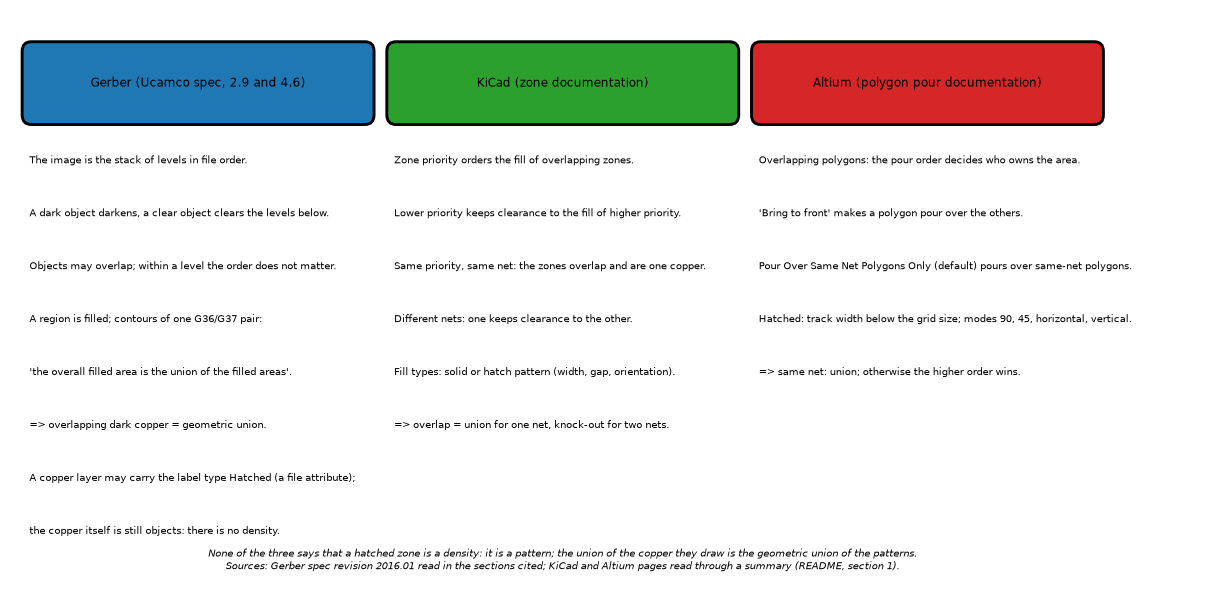
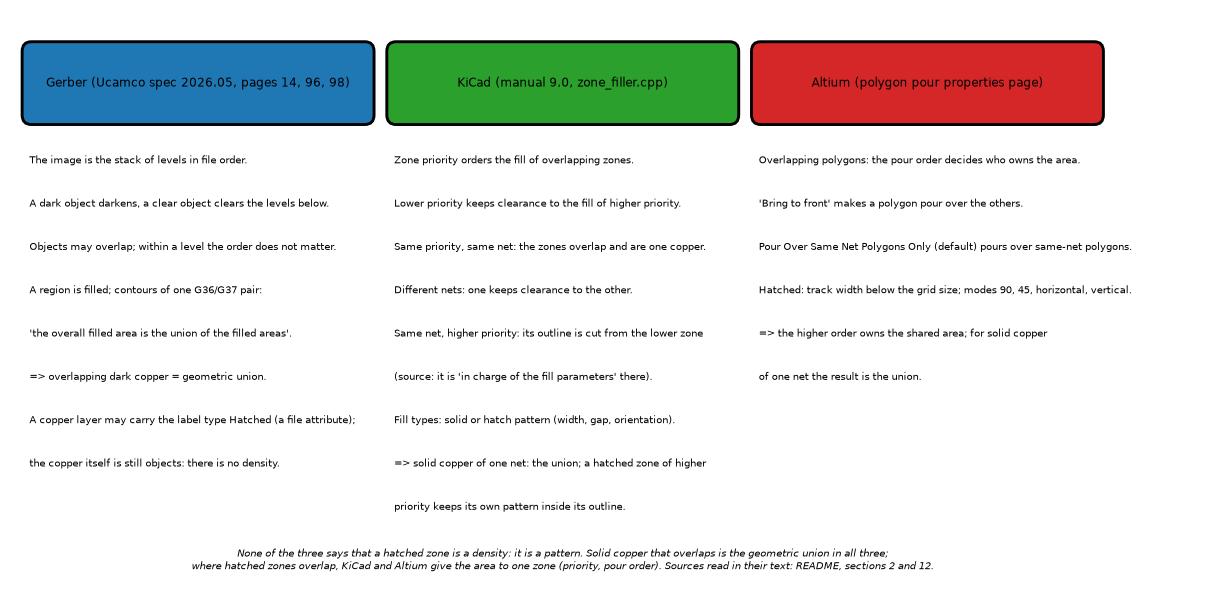
Read the Gerber, KiCad and Altium texts and redraw figure 5
The review downloaded the sources that the investigation had only as
summaries: the KiCad zone filler gives the outline of a same-net zone
of higher priority to that zone, so the priority rule is a CAD rule for
one net too. Figure 5 and the bibliography statuses follow.

Claude-Session: https://claude.ai/code/session_01NsfnySABtTnfYfYFzLoyJj

diff --git a/research/zone-union/scripts/make_diagrams.py b/research/zone-union/scripts/make_diagrams.py
@@ -204,26 +204,27 @@ def fig_05():
     ax.set_xlim(0, 12)
     ax.set_ylim(0, 6)
     cols = [
-        ("Gerber (Ucamco spec, 2.9 and 4.6)", dk.BLUE,
+        ("Gerber (Ucamco spec 2026.05, pages 14, 96, 98)", dk.BLUE,
          ["The image is the stack of levels in file order.", "A dark object darkens, a clear object clears the levels below.",
           "Objects may overlap; within a level the order does not matter.", "A region is filled; contours of one G36/G37 pair:",
           "'the overall filled area is the union of the filled areas'.", "=> overlapping dark copper = geometric union.", "A copper layer may carry the label type Hatched (a file attribute);", "the copper itself is still objects: there is no density."]),
-        ("KiCad (zone documentation)", "#2ca02c",
+        ("KiCad (manual 9.0, zone_filler.cpp)", "#2ca02c",
          ["Zone priority orders the fill of overlapping zones.", "Lower priority keeps clearance to the fill of higher priority.",
           "Same priority, same net: the zones overlap and are one copper.", "Different nets: one keeps clearance to the other.",
-          "Fill types: solid or hatch pattern (width, gap, orientation).", "=> overlap = union for one net, knock-out for two nets."]),
-        ("Altium (polygon pour documentation)", "#d62728",
+          "Same net, higher priority: its outline is cut from the lower zone", "(source: it is 'in charge of the fill parameters' there).",
+          "Fill types: solid or hatch pattern (width, gap, orientation).", "=> solid copper of one net: the union; a hatched zone of higher", "priority keeps its own pattern inside its outline."]),
+        ("Altium (polygon pour properties page)", "#d62728",
          ["Overlapping polygons: the pour order decides who owns the area.", "'Bring to front' makes a polygon pour over the others.",
           "Pour Over Same Net Polygons Only (default) pours over same-net polygons.", "Hatched: track width below the grid size; modes 90, 45, horizontal, vertical.",
-          "=> same net: union; otherwise the higher order wins."]),
+          "=> the higher order owns the shared area; for solid copper", "of one net the result is the union."]),
     ]
     for i, (head, color, lines) in enumerate(cols):
         x = 0.1 + 4.0 * i
         dk.box(ax, x, 4.9, 3.8, 0.8, head, color=color, bold=True, size=8)
         for j, t in enumerate(lines):
-            ax.text(x + 0.05, 4.55 - 0.55 * j, t, fontsize=6.8, va="top", wrap=True)
-    ax.text(6, 0.25, "None of the three says that a hatched zone is a density: it is a pattern; the union of the copper they draw is the geometric union of the patterns.\n"
-                     "Sources: Gerber spec revision 2016.01 read in the sections cited; KiCad and Altium pages read through a summary (README, section 1).", ha="center", fontsize=7.2, style="italic")
+            ax.text(x + 0.05, 4.55 - 0.45 * j, t, fontsize=6.8, va="top", wrap=True)
+    ax.text(6, 0.25, "None of the three says that a hatched zone is a density: it is a pattern. Solid copper that overlaps is the geometric union in all three;\n"
+                     "where hatched zones overlap, KiCad and Altium give the area to one zone (priority, pour order). Sources read in their text: README, sections 2 and 12.", ha="center", fontsize=7.2, style="italic")
     dk.save(fig, FIGURES / "fig_05_cad_semantics.png")
 
 

diff --git a/research/theory/BIBLIOGRAPHY.md b/research/theory/BIBLIOGRAPHY.md
@@ -366,19 +366,19 @@ KiCad `.kicad_pcb` file format (text, s-expressions), version 20171130, as in th
 The board outline as the Gerber profile layer (web searches, snippets only): the X2 file attribute `TF.FileFunction,Profile,NP` (DipTrace forum https://diptrace.com/forum/viewtopic.php?p=33620; https://en.wikipedia.org/wiki/Gerber_format); Altium on a closed path (https://altium.com/documentation/node/304685/printable/print?version=22); KiCad forum threads on strokes and gaps (https://forum.kicad.info/t/kicad-edge-cuts-rejected-by-jlcpcb/27159, https://forum.kicad.info/t/gerber-file-errors-due-to-edge-cuts-not-connected/9467, https://forum.kicad.info/t/how-to-define-the-board-outline-pcb-edge/32166); MacroFab https://help.macrofab.com/knowledge/how-to-ensure-the-board-outline-is-correct. **Status S.** No source gave a rule for the size of a gap to close. Topic 20.
 
 ### [Gerber2026]
-Ucamco, *The Gerber Layer Format Specification*, revision 2026.05, downloaded from https://www.ucamco.com/en/guest/downloads/gerber-format (file `gerber-layer-format-specification-revision-2026-05_en.pdf`, 219 pages), text extracted locally, nothing stored in the repository. **Read in full for the points of `research/zone-union`**: the section "Polarity" (printed page 14: objects have a polarity, dark or clear, "Objects can overlap", a clear object clears the objects beneath it, "An object is totally dark or totally clear"), the region statement G36/G37 (printed pages 96 to 97: "Each contour is filled individually. The overall filled area is the union of the filled areas of each individual contour"; two overlapping contours may be merged into one region object), the rule that contours must not self-intersect (4.10.3), and the file attribute `.FileFunction` whose Copper layer type is one of Plane, Signal, Mixed or Hatched (a label of the layer, not a density). The rest of the specification was not read. **Status R for those passages.** Used by `research/zone-union` (README 2).
+Ucamco, *The Gerber Layer Format Specification*, revision 2026.05, downloaded from https://www.ucamco.com/en/guest/downloads/gerber-format (file `gerber-layer-format-specification-revision-2026-05_en.pdf`, 219 pages), text extracted locally, nothing stored in the repository. **Read in full for the points of `research/zone-union`**: the section "Polarity" (printed page 14: objects have a polarity, dark or clear, "Objects can overlap", a clear object clears the objects beneath it, "An object is totally dark or totally clear"), the region statement G36/G37 (printed pages 96 to 97: "Each contour is filled individually. The overall filled area is the union of the filled areas of each individual contour"; two overlapping contours may be merged into one region object), the rule that contours must not self-intersect (4.10.3), and the file attribute `.FileFunction` whose Copper layer type is one of Plane, Signal, Mixed or Hatched (a label of the layer, not a density). The review of `research/zone-union` downloaded the same file (https://www.ucamco.com/files/downloads/file_en/554/gerber-layer-format-specification-revision-2026-05_en.pdf) and found every quotation: Polarity on PDF page 14, the region overview of 4.10 on page 96, the valid contours of 4.10.3 on page 98 (simple contours "do not self-intersect or self-touch"), the Copper layer types in the `.FileFunction` table; it also read the section "Copper Pours, Power and Ground Planes" (page 117: a plane as a dark region with clear clearances; self-intersecting cut-ins "the most frequent cause of scrap"). The rest of the specification was not read. **Status R for those passages.** Used by `research/zone-union` (README 2).
 
 ### [Gerber2016Mirror]
 The same specification, revision 2016.01, from a third-party mirror (https://argmaster.github.io/pygerber/2.3.1/gerber_specification/gerber-layer-format-specification-revision-2016-01_en.pdf), text extracted locally: section 2.9 "Dark and Clear Polarity" and section 4.6 (region mode, the examples "Overlapping Contours", "Non-overlapping and Touching", "Overlapping and Touching") read; the statements agree with [Gerber2026]. **Status R for those sections** (a mirror, not Ucamco's own file). `research/zone-union`.
 
 ### [KiCadZones9]
-KiCad 9.0 documentation, PCB Editor, zones: https://docs.kicad.org/9.0/en/pcbnew/pcbnew.html. The page is 520 772 characters; the fetch tool returned answers about two windows of it (characters 0 to 100 000 and 100 000 to 200 000), not the page itself. Statements found: zone priority "determines the order in which multiple zones on a single layer are filled"; lower-priority zones keep clearance to the filled areas of higher-priority zones; two zones on the same layer with the same priority overlap (short-circuit) unless they have different nets; fill type solid or hatch pattern with orientation, hatch width and hatch gap, smoothing. The hatch statement says the pattern "will fill the area with a pattern that contains less copper". The part of the page on islands and refill was only summarised. **Status S** (a summary by the fetch tool; the text of the page was not read). `research/zone-union`.
+KiCad 9.0 documentation, PCB Editor, zones: https://docs.kicad.org/9.0/en/pcbnew/pcbnew.html. The page is 520 772 characters; the fetch tool returned answers about two windows of it (characters 0 to 100 000 and 100 000 to 200 000), not the page itself. Statements found: zone priority "determines the order in which multiple zones on a single layer are filled"; lower-priority zones keep clearance to the filled areas of higher-priority zones; two zones on the same layer with the same priority overlap (short-circuit) unless they have different nets; fill type solid or hatch pattern with orientation, hatch width and hatch gap, smoothing. The hatch statement says the pattern "will fill the area with a pattern that contains less copper". The part of the page on islands and refill was only summarised. The review of `research/zone-union` downloaded the page and read in its text the zone properties: the priority sentences above, "Two zones on the same layer with the same priority level will overlap (short-circuit) with each other, unless they are assigned different nets", the hatch pattern ("a pattern that contains less copper", orientation, hatch width, hatch gap, smoothing) and "Zones only fill when they are within the board outline". **Status R for those passages** (the rest of the page was not read). `research/zone-union`.
 
 ### [KiCadZoneFillerSource]
-KiCad source file `pcbnew/zone_filler.cpp` (https://gitlab.com/kicad/code/kicad/-/raw/master/pcbnew/zone_filler.cpp), first 100 000 of 190 365 characters, through the fetch tool's summary: hatch handling in `knockoutThermalReliefs`, `findHighestPriorityZone` ("Prefer any same-net zone over a higher-priority different-net zone"), `zone_fill_dependency` ("Same-net zones always use outlines to produce determinate results"), knock-out of the fills of higher-priority zones. The hatch builder and the same-net merge step were not in the part seen. **Status S.** `research/zone-union`.
+KiCad source file `pcbnew/zone_filler.cpp` (https://gitlab.com/kicad/code/kicad/-/raw/master/pcbnew/zone_filler.cpp), first 100 000 of 190 365 characters, through the fetch tool's summary: hatch handling in `knockoutThermalReliefs`, `findHighestPriorityZone` ("Prefer any same-net zone over a higher-priority different-net zone"), `zone_fill_dependency` ("Same-net zones always use outlines to produce determinate results"), knock-out of the fills of higher-priority zones. The hatch builder and the same-net merge step were not in the part seen. The review of `research/zone-union` downloaded the whole file (master branch at the time of reading, 190 389 characters) and read `subtractHigherPriorityZones` ("Removes the outlines of higher-proirity [sic] zones with the same net. These zones should be in charge of the fill parameters within their own outlines"), the refill that lets lower same-net zones "reclaim any notch the higher zone left unfilled", `findHighestPriorityZone` and the start of the hatch processing. **Status R for those functions** (the rest of the file was not read; which released versions behave as this master branch was not checked). `research/zone-union`.
 
 ### [AltiumPolygonPour]
-Altium Designer documentation, Polygon Pour properties: https://altium.com/documentation/altium-designer/pcb-polygon-pour-properties?version=19 (version 19 of the page; the current one returned 404 at its address) and the search result for the polygon pour pages (https://www.altium.com/documentation/cstu/polygon-pour-0). Statements found: hatched fill with Track Width and Grid Size (a width below the grid size gives a hatched pour, above it a solid one) and the modes 90 Degree, 45 Degree, Horizontal, Vertical; "Pour Over Same Net Polygons Only" is the default; "When two polygons overlap, Altium Designer needs to know which one should occupy the shared area"; higher pour order takes precedence; the change shows after a repour. **Status S** (through the fetch tool's summary).  `research/zone-union`.
+Altium Designer documentation, Polygon Pour properties: https://altium.com/documentation/altium-designer/pcb-polygon-pour-properties?version=19 (version 19 of the page; the current one returned 404 at its address) and the search result for the polygon pour pages (https://www.altium.com/documentation/cstu/polygon-pour-0). Statements found: hatched fill with Track Width and Grid Size (a width below the grid size gives a hatched pour, above it a solid one) and the modes 90 Degree, 45 Degree, Horizontal, Vertical; "Pour Over Same Net Polygons Only" is the default; "When two polygons overlap, Altium Designer needs to know which one should occupy the shared area"; higher pour order takes precedence; the change shows after a repour. The review of `research/zone-union` downloaded https://www.altium.com/documentation/altium-designer/pcb-polygon-pour-properties (it answered at that address) and read these passages in its text, including "Pour Over Same Net Polygons Only – choose this option (default)" and "the higher-order polygon having precedence and pouring over the shared area". **Status R for those passages.** `research/zone-union`.
 
 ### [Clipper2]
 A. Johnson, Clipper2 documentation, https://www.angusj.com/clipper2/Docs/Overview.htm: line and polygon clipping, union, difference and XOR, "based on but significantly extends Bala Vatti's polygon clipping algorithm", fill rules EvenOdd, NonZero, Positive, Negative, integer coordinates for robustness. **Status S** (the overview through the fetch tool; the library was not used). `research/zone-union`.
